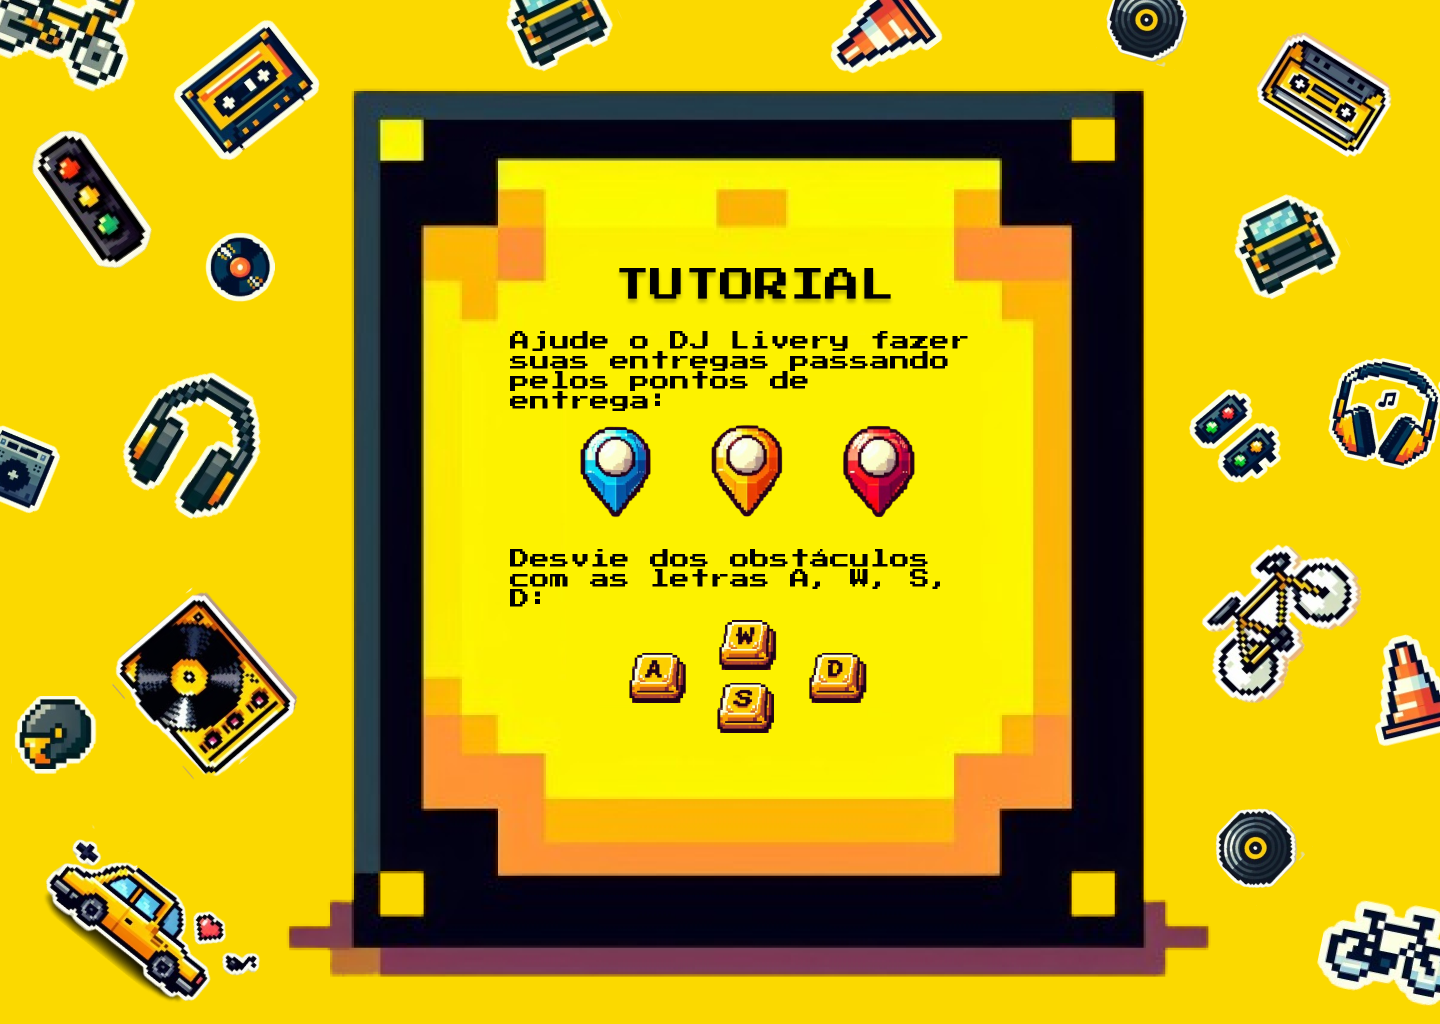
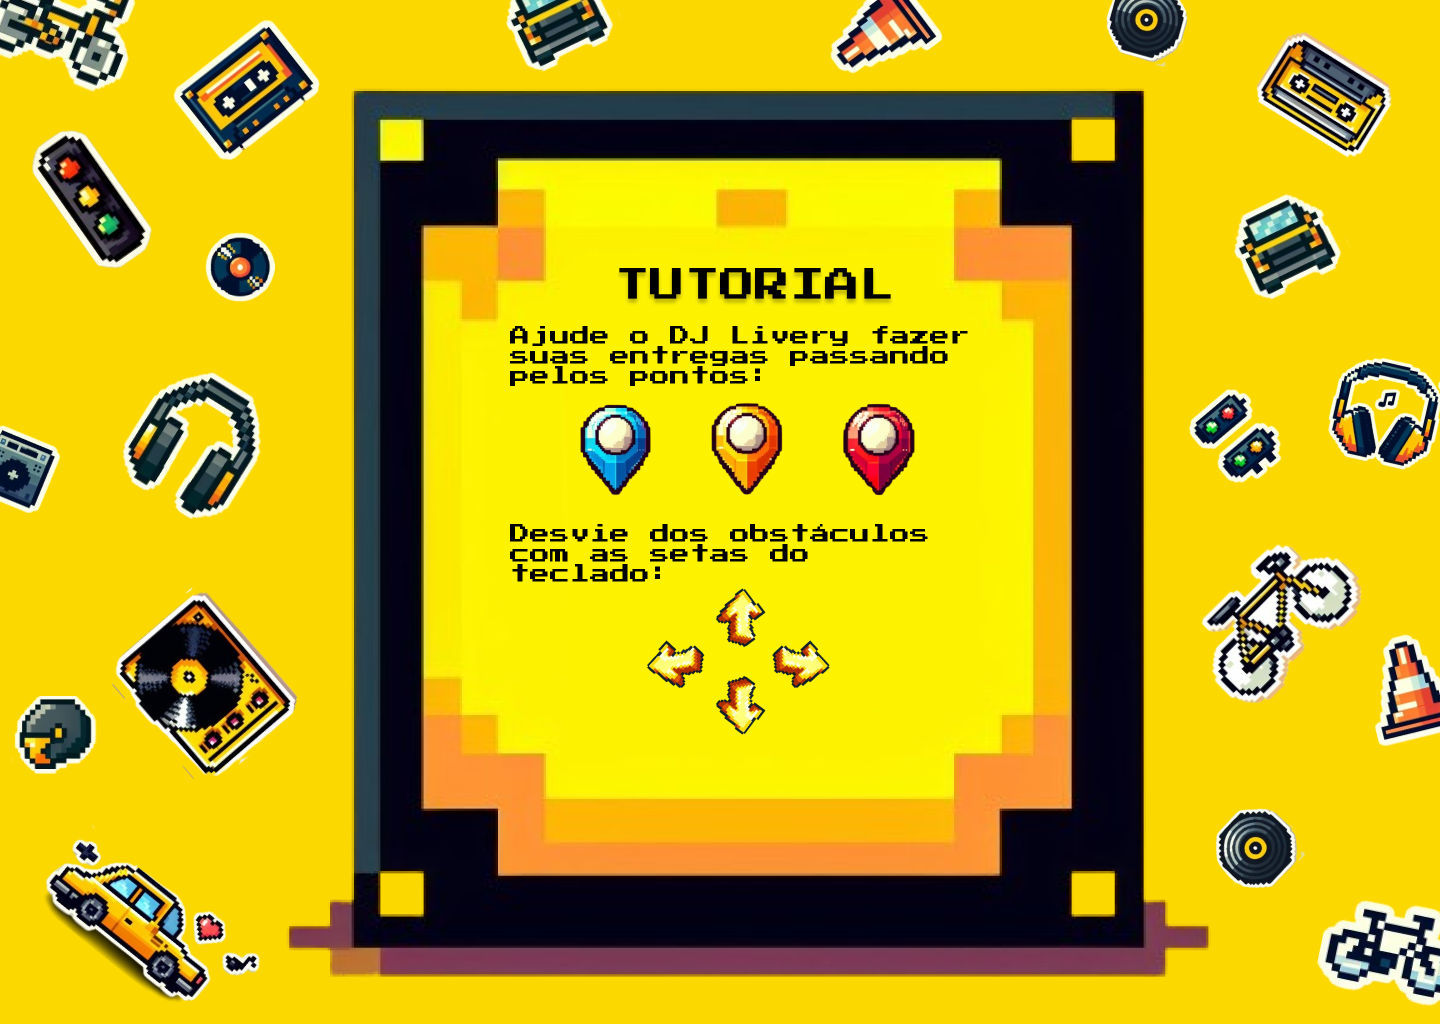
alterando tutorial

Changed region(s): [[0.3438, 0.3125, 0.6875, 0.7188]]

diff --git a/src/scenes/Tutorial2.ts b/src/scenes/Tutorial2.ts
@@ -1,10 +1,10 @@
-import telaTutorialImg from '@assets/telaTutorial/telaTutorial.png';
-import botaoVoltarImg from '@assets/botoes/botaoInicio.png';
-import botaoProximoImg from '@assets/botoes/botaoProximo.png';
+import telaTutorial2Img from '@assets/telaTutorial/telaTutorial2.png';
+import botaoInicioImg from '@assets/botoes/botaoInicio.png';
+import botaoVoltarImg from '@assets/botoes/botaoVoltar.png';
 
-export class Tutorial extends Phaser.Scene {
+export class Tutorial2 extends Phaser.Scene {
   constructor() {
-    super({ key: 'Tutorial' });
+    super({ key: 'Tutorial2' });
   }
 
   init(): void {}
@@ -13,7 +13,7 @@ export class Tutorial extends Phaser.Scene {
     const larguraTela = this.sys.canvas.width;
     const alturaTela = this.sys.canvas.height;
     // Adiciona a imagem de fundo que ocupa toda a tela
-    const backgroundImage = this.add.image(0, 0, 'telaTutorial.png');
+    const backgroundImage = this.add.image(0, 0, 'telaTutorial2.png');
     // Centraliza a imagem na tela
     backgroundImage.setOrigin(0);
 
@@ -21,24 +21,24 @@ export class Tutorial extends Phaser.Scene {
     backgroundImage.displayWidth = larguraTela;
     backgroundImage.displayHeight = alturaTela;
 
-    let larguraBotao = larguraTela / 2 - 180;
+    let larguraBotao = larguraTela / 2;
     let alturaBotao = alturaTela / 2 + 160;
 
-    const botaoVoltar = this.add.image(larguraBotao, alturaBotao, 'botaoVoltar.png');
+    const botaoInicio = this.add.image(larguraBotao + 40, alturaBotao, 'botaoInicio.png');
+    botaoInicio.setOrigin(0);
+    botaoInicio.displayWidth = 180;
+    botaoInicio.displayHeight = 45;
+
+    botaoInicio.setInteractive();
+    botaoInicio.on('pointerdown', () => this.scene.start('TelaInicial'));
+
+    const botaoVoltar = this.add.image(larguraBotao - 180, alturaBotao, 'botaoVoltar.png');
     botaoVoltar.setOrigin(0);
     botaoVoltar.displayWidth = 180;
     botaoVoltar.displayHeight = 45;
 
     botaoVoltar.setInteractive();
-    botaoVoltar.on('pointerdown', () => this.scene.start('TelaInicial'));
-
-    const botaoProximo = this.add.image(larguraBotao + 220, alturaBotao, 'botaoProximo.png');
-    botaoProximo.setOrigin(0);
-    botaoProximo.displayWidth = 180;
-    botaoProximo.displayHeight = 45;
-
-    botaoProximo.setInteractive();
-    botaoProximo.on('pointerdown', () => this.scene.start('Tutorial2'));
+    botaoVoltar.on('pointerdown', () => this.scene.start('Tutorial'));
 
     // Aplica estilos CSS para evitar rolagem e fixar a imagem de fundo
     const gameCanvas = document.querySelector('canvas');
@@ -54,13 +54,13 @@ export class Tutorial extends Phaser.Scene {
 
   preload(): void {
     // Pré-carrega a imagem de fundo
-    this.load.image('telaTutorial.png', telaTutorialImg);
+    this.load.image('telaTutorial2.png', telaTutorial2Img);
+
+    // Pré-carrega a imagem do botão inicio
+    this.load.image('botaoInicio.png', botaoInicioImg);
 
     // Pré-carrega a imagem do botão voltar
     this.load.image('botaoVoltar.png', botaoVoltarImg);
-
-    // Pré-carrega a imagem do botão proximo
-    this.load.image('botaoProximo.png', botaoProximoImg);
   }
 
   update(): void {}

diff --git a/src/game.ts b/src/game.ts
@@ -5,6 +5,7 @@ import { Tutorial } from '@scenes/Tutorial';
 import { Placar } from '@scenes/Placar';
 import { PreInicio } from '@scenes/PreInicio';
 import { Fase } from '@scenes/Fase';
+import { Tutorial2 } from '@scenes/Tutorial2';
 
 export class Game extends Phaser.Game {
   constructor(config: Phaser.Types.Core.GameConfig) {
@@ -18,7 +19,7 @@ window.addEventListener('load', () => {
     height: '100%',
     type: Phaser.AUTO,
     parent: 'game',
-    scene: [BootScene, TelaInicial, Tutorial, Placar, PreInicio, Fase],
+    scene: [BootScene, TelaInicial, Tutorial, Tutorial2, Placar, PreInicio, Fase],
     input: {
       keyboard: true,
     },
